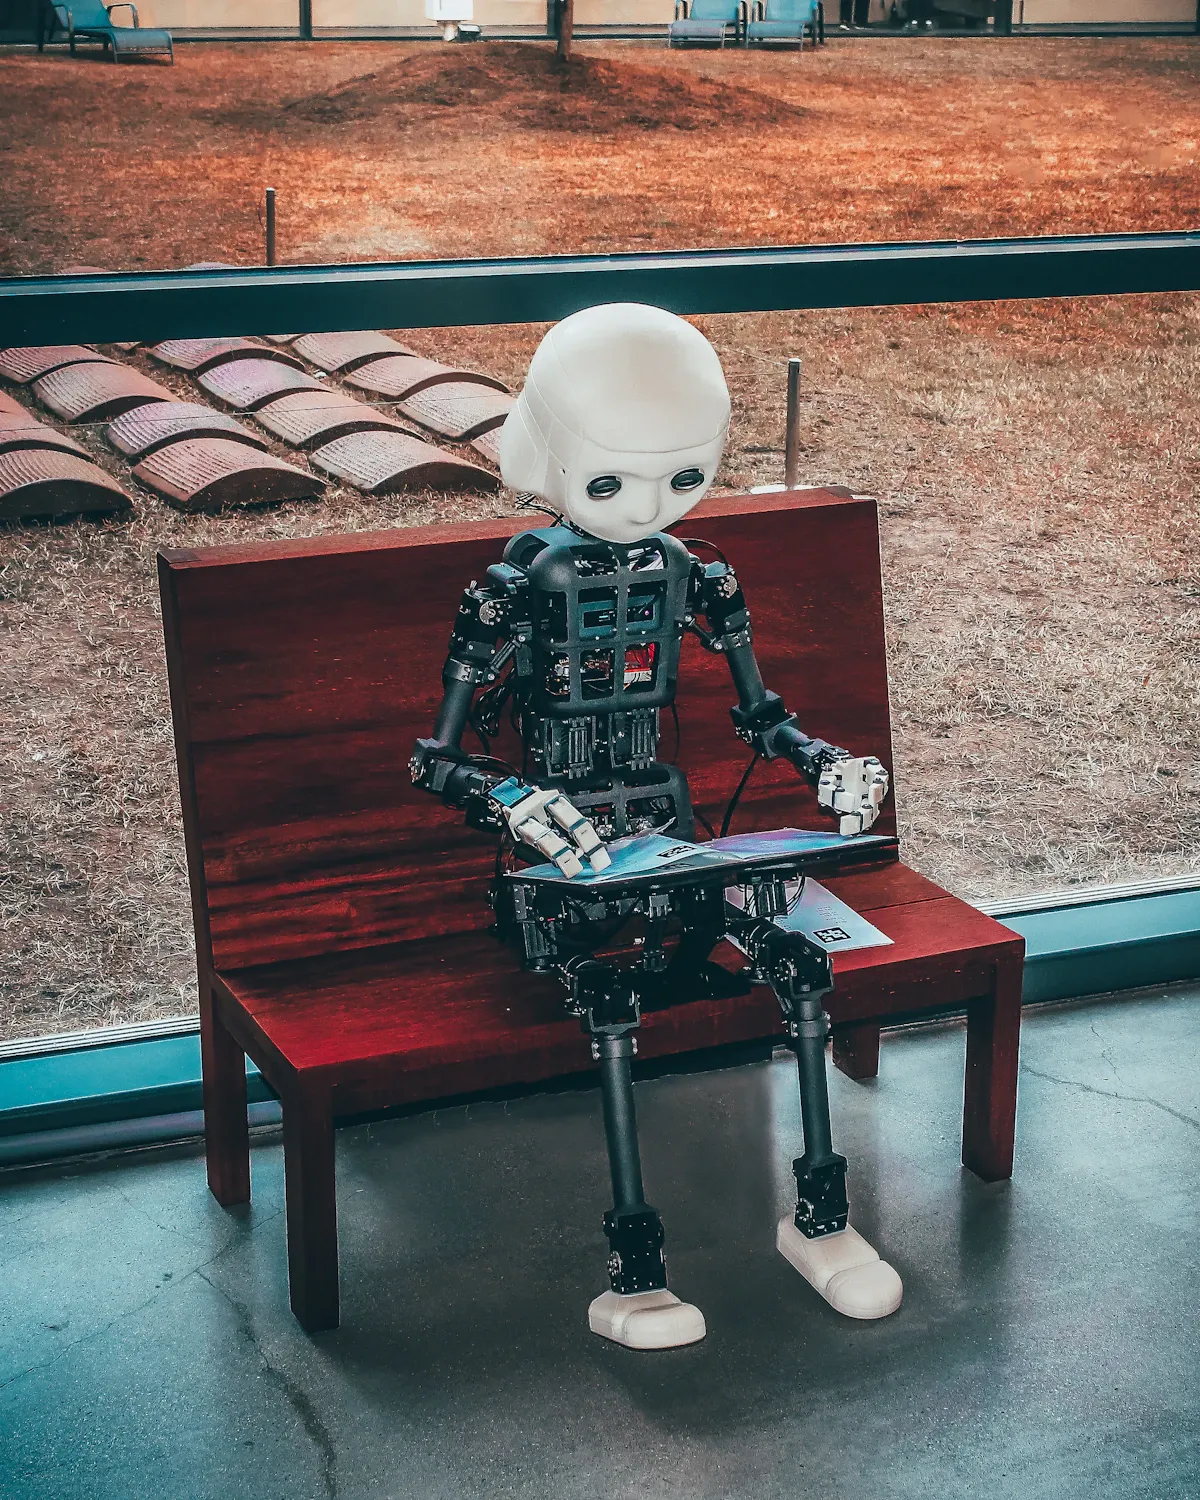
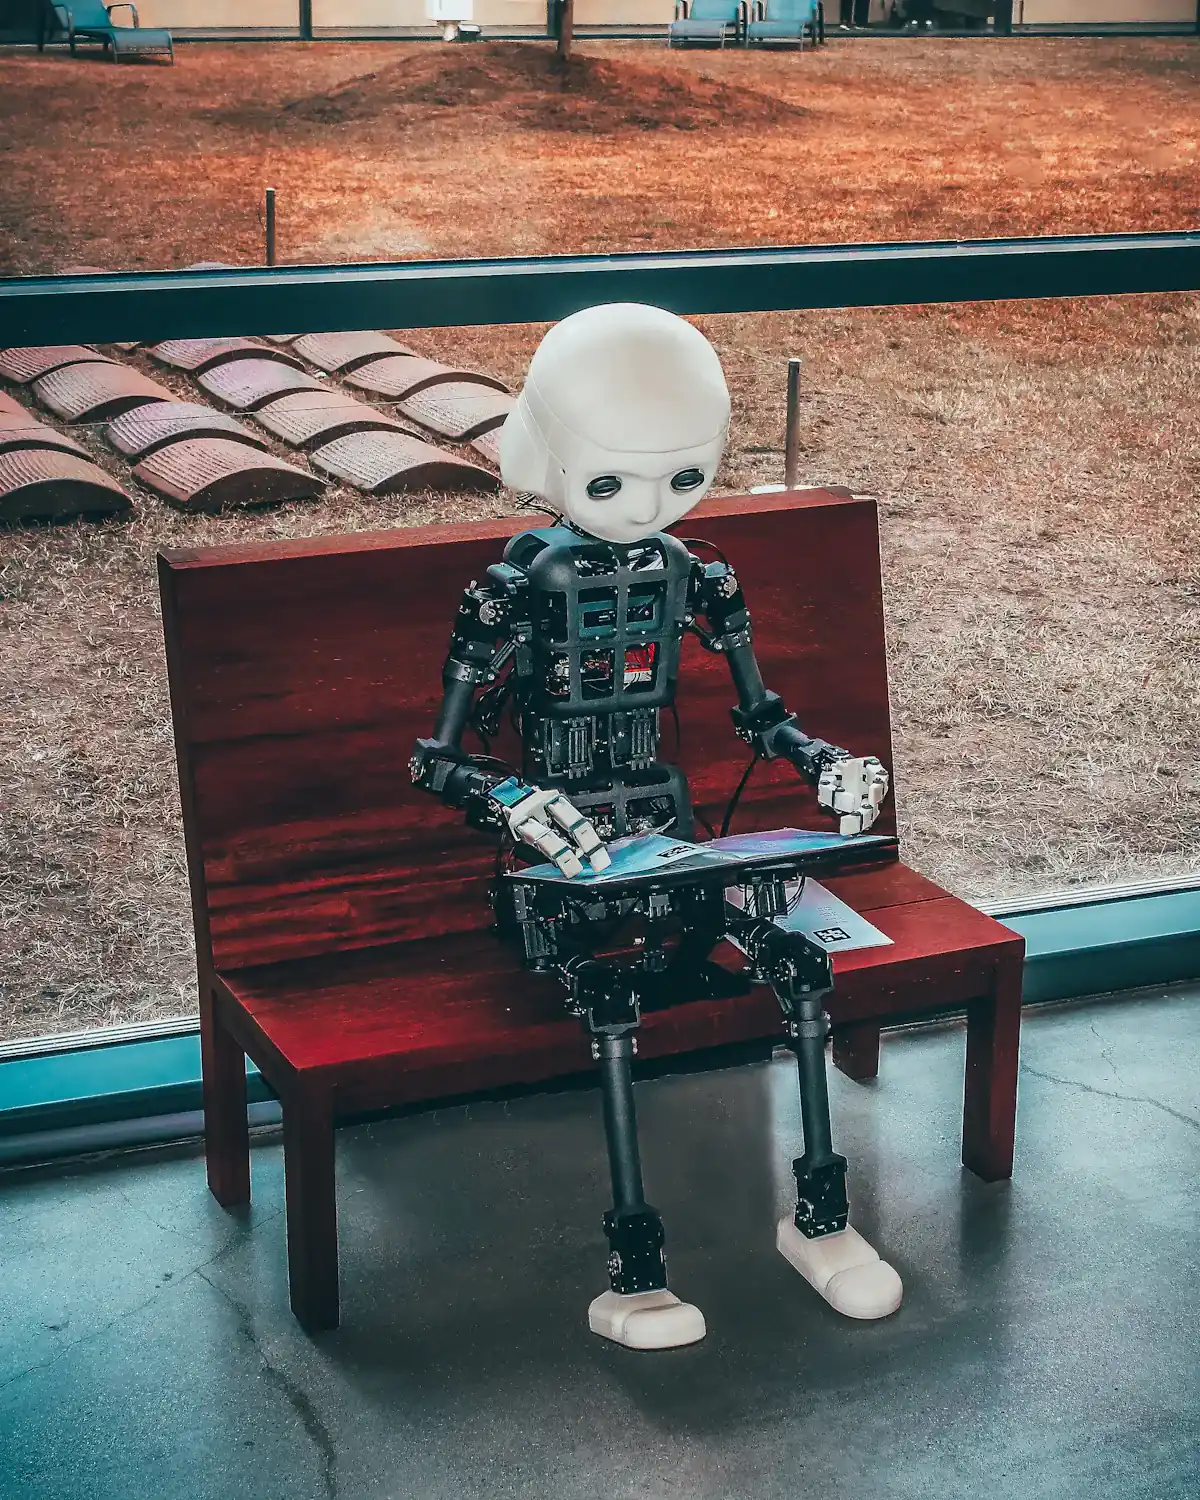
seo: Wave 3 quick wins — feed VI alternates, webp re-encodes, lastmod bump
- feed.xml: per-item atom:link hreflang="vi" alternates, emitted only
  when a real VI translation renders (same policy as the sitemap);
  45 alternates matching the 45 translated-post VI URLs exactly
- images: cs-ai-dashboard 430K→233K, cs-ai-hero 321K→143K,
  blog-enterprise 262K→119K (dimensions unchanged, visual QA passed)
- sitemap: CONTENT_LAST_UPDATED 2026-07-28 → 2026-08-21 per the
  constant's revision policy (homepage + technologies overhauls,
  em-dash pass landed that day); blog entries were already per-entity
- roadmap: Wave 3 closed — A2/B1/B2 verified already shipped, rest
  done in this pass

diff --git a/src/app/feed.xml/route.ts b/src/app/feed.xml/route.ts
@@ -1,4 +1,5 @@
 import { blogPosts } from "@/lib/blog-data";
+import { blogViMeta } from "@/lib/blog-i18n";
 import { CONTACT, SITE_URL } from "@/lib/constants";
 
 /**
@@ -36,6 +37,12 @@ export async function GET() {
     .map((post) => {
       const postUrl = `${SITE_URL}/en/blog/${post.slug}`;
       const imageUrl = ogImageUrl(post.slug);
+      // VI alternate only when a real translation renders (same policy as
+      // the sitemap: never advertise EN content under a /vi URL).
+      const viMeta = blogViMeta[post.slug];
+      const viAlternate = viMeta
+        ? `\n      <atom:link rel="alternate" hreflang="vi" href="${SITE_URL}/vi/blog/${viMeta.slug}" />`
+        : "";
 
       return `    <item>
       <title><![CDATA[${post.title}]]></title>
@@ -46,7 +53,7 @@ export async function GET() {
       <category>${post.category}</category>
       <pubDate>${new Date(post.date).toUTCString()}</pubDate>
       <guid isPermaLink="true">${postUrl}</guid>
-      <enclosure url="${imageUrl}" length="0" type="image/png" />
+      <enclosure url="${imageUrl}" length="0" type="image/png" />${viAlternate}
     </item>`;
     })
     .join("\n");

diff --git a/src/lib/constants.ts b/src/lib/constants.ts
@@ -5,7 +5,7 @@ export const SITE_NAME = "Retech Solutions";
 // content is meaningfully revised. Static pages, services, industries,
 // and case studies rarely change — use this stable timestamp instead of
 // `new Date()` so crawlers see a consistent lastmod signal across builds.
-export const CONTENT_LAST_UPDATED = "2026-07-28";
+export const CONTENT_LAST_UPDATED = "2026-08-21";
 
 export const CONTACT = {
   phone: "(+84) 769 294 225",

diff --git a/docs/overhaul-roadmap.md b/docs/overhaul-roadmap.md
@@ -1,7 +1,7 @@
 # Website Overhaul Roadmap
 
 **Owner:** Jay Pham · **Driver:** agent swarm (PM / UI-UX / 3D-Motion / Frontend / Marketing / SEO / QA)
-**Status:** 2026-08-21: **Lit Dunes SHIPPED to the homepage hero — raw-WebGL port live, AURORA palette (Jay: "let's push aurora first"), LatticeField + the three.js/r3f stack deleted.** Component: `src/components/sections/home/LitDunes.tsx` (zero libraries, idle-armed mount, reduced-motion static t=47, theme via data-theme MutationObserver). QA clean: tsc, production build, both themes, mobile 375, reduced-motion static frame (0.2% diff = hero's rotating word, shader byte-identical), 0 console errors; idle 4-13%, cursor 8-24%. Cursor stays softened (lerp 0.010, mound 0.15, lamp 0.50, parallax 0.07/0.02 — do not raise). The M3 color lab's four identity-grounded alternates stay parked in lit-dunes-colors.html for a possible later swap. Round 5 L/N, Round 4 I/J/K, Aurora Sweep II moot for hero. Wave 1 + scene placement + hero port done, awaiting commit go-ahead.
+**Status:** 2026-08-22: **Wave 3 SEO quick wins closed** (A4 feed VI alternates, B3 webp re-encodes, A1 lastmod bump; A2/B1/B2 verified already shipped; B1 carried a real VI-404 bug, fixed). Wave 1 + Wave 2 (hero: Lit Dunes) shipped 2026-08-21 — raw-WebGL port live, AURORA palette (Jay: "let's push aurora first"), LatticeField + the three.js/r3f stack deleted. Component: `src/components/sections/home/LitDunes.tsx` (zero libraries, idle-armed mount, reduced-motion static t=47, theme via data-theme MutationObserver). QA clean: tsc, production build, both themes, mobile 375, reduced-motion static frame (0.2% diff = hero's rotating word, shader byte-identical), 0 console errors; idle 4-13%, cursor 8-24%. Cursor stays softened (lerp 0.010, mound 0.15, lamp 0.50, parallax 0.07/0.02 — do not raise). The M3 color lab's four identity-grounded alternates stay parked in lit-dunes-colors.html for a possible later swap. Wave 4 = next.
 
 ## Wave 1: DONE (2026-08-20)
 
@@ -39,15 +39,15 @@ Outcome after 3 rounds (A Blueprint, B Living Product, C Signal Field, D Aurora 
 
 First resolved as no port (Code to Product placed on /technologies instead: full-width band, LCP-safe plain-DOM first paint, idle-armed motion, dark/light + mobile + reduced-motion QA'd clean). Then Round 5's Lit Dunes won Jay's eye, and after the M2/M3 verdicts (base scene as-is, aurora palette) it shipped to the homepage hero as `src/components/sections/home/LitDunes.tsx` — raw WebGL, one fullscreen triangle + one fragment shader, zero libraries. LatticeField.tsx + lattice-geometry.ts deleted (the old hero background pulled three.js + r3f + postprocessing for the same job); the grid-pattern hero overlay and lattice-mask CSS went with it (designed for the old flat gradient, not the dunes). LCP-safe idle mount, reduced-motion static t=47, theme via data-theme MutationObserver. QA: tsc, production build, both themes, mobile 375, reduced-motion static frame, 0 console errors.
 
-## Wave 3: SEO quick wins (all additive, none destructive)
+## Wave 3: SEO quick wins — DONE (2026-08-22)
 
 From the read-only SEO review (full report in chat, 2026-08-20):
-- **A1** sitemap per-entity `lastmod` (currently one global date)
-- **A2** BreadcrumbJsonLd on services/case-studies/industries/[slug] + category pages (only ~5 pages have it)
-- **A4** feed.xml: per-item VI alternates
-- **B1** RelatedPosts block on service pages (topical clusters, e.g. "custom CMS development Vietnam")
-- **B2** Blog authors → Person schema (E-E-A-T) if real authors exist
-- **B3** Re-encode >250KB webps (cs-ai-dashboard.webp is 430KB)
+- **A1** sitemap per-entity `lastmod` — resolved: blog was already per-entity (`updatedAt ?? date`); services/case-studies/industries have no per-entity dates in their data (fabricating them = no), so the global stamp is correct for them. `CONTENT_LAST_UPDATED` bumped 2026-07-28 → 2026-08-21 per its own revision policy.
+- **A2** BreadcrumbJsonLd on detail + category pages — was already shipped (found live in JsonLd.tsx + detail pages)
+- **A4** feed.xml: per-item VI alternates — shipped, same policy as the sitemap (VI alternate only when a real translation renders)
+- **B1** RelatedPosts on service pages — was already shipped; this pass fixed a real i18n bug found in it: VI service + case-study related-post cards linked EN slugs under /vi, which hard-404 for translated posts (blog generateStaticParams only enumerates VI slugs, dynamicParams=false). Now locale-aware via `getBlogMeta(post, loc)` on both templates.
+- **B2** Blog authors → Person schema — resolved as no-change: all posts are authored "Retech Solutions" (org), and BlogPostingJsonLd already links author to `#organization` via `@id` — correct E-E-A-T shape for an org author; fake Person personas would violate the no-hallucination rule.
+- **B3** Re-encode >250KB webps — shipped: cs-ai-dashboard.webp 430K→233K (q46 m6), cs-ai-hero.webp 321K→143K (q72), blog-enterprise.webp 262K→119K (q72). Dimensions unchanged, visual QA passed. Note: cs-ai-dashboard + blog-enterprise are currently unreferenced — candidates for deletion (Jay's call).
 - Parked: VI category slugs (needs 301 plan), review schema (policy risk), speakable
 
 ## Wave 4: polish backlog
